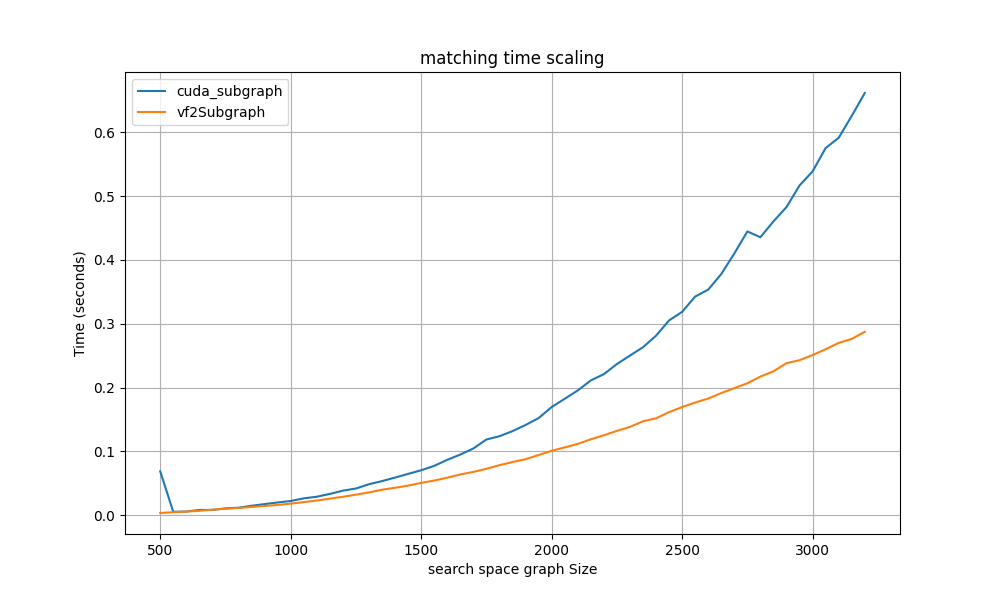
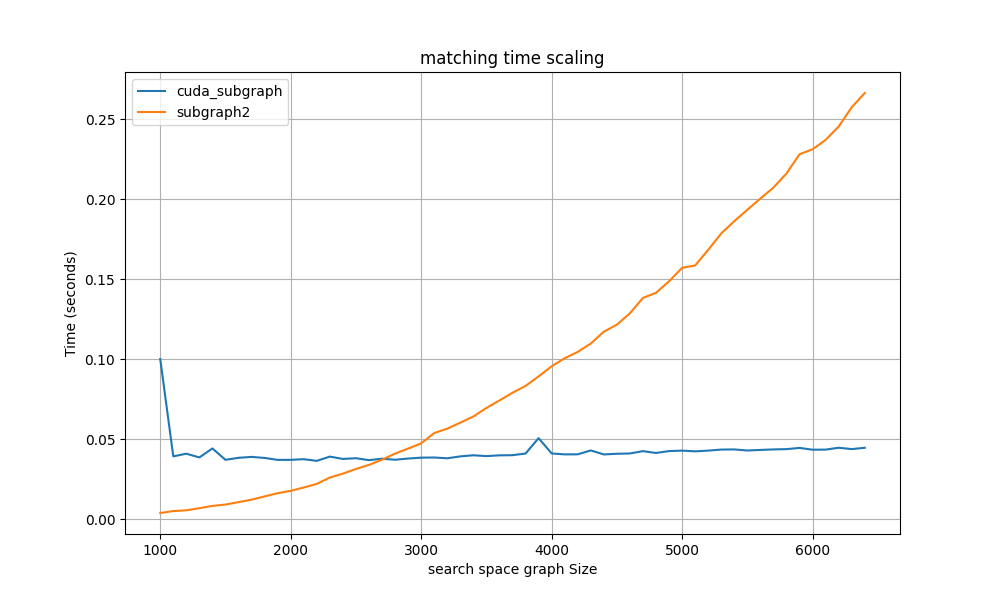
fixed cuda benchmarks

diff --git a/utils/generateSamples.cpp b/utils/generateSamples.cpp
@@ -21,18 +21,18 @@ void EfficiencyTests::generateSamples(int count) {
 }
 
 void EfficiencyTests::generateCudaSubgraphSamples(int count) {
-    std::size_t bigGraphSize = 500;
-    const std::size_t bigDelta = 50;
-
-    std::vector<core::Graph> bigGraphs;
-    for (int i = 0; i < count; i++) {
-        const auto bigGraph = GraphFactory::random_connected_graph(bigGraphSize, 0.02);
-        cudaBigGraphs_.push_back(bigGraph);
-        bigGraphSize += bigDelta;
-    }
+    std::size_t bigGraphSize = 1000;
+    const std::size_t bigDelta = 100;
 
     std::size_t subgraphSize = 10;
     cudaSmallGraph_ = GraphFactory::random_connected_graph(subgraphSize, 0.8);
+
+    std::vector<core::Graph> bigGraphs;
+    for (int i = 0; i < count; i++) {
+        const auto bigGraph = GraphFactory::random_bigger_graph(cudaSmallGraph_, bigGraphSize);
+        cudaBigGraphs_.push_back(bigGraph);
+        bigGraphSize += bigDelta;
+    }
 }
 
 void EfficiencyTests::generateSubgraphSamples(int count, bool induced) {

diff --git a/utils/include/utils.h b/utils/include/utils.h
@@ -23,7 +23,7 @@ class GraphFactory {
     static core::Graph random_induced_minor(const core::Graph& G, std::size_t minorSize);
     static core::Graph random_edge_subdivisions(const core::Graph& G, std::size_t count);
     static core::Graph undirectedGraph(const core::Graph& G);
-    static core::Graph random_bigger_graph(const core::Graph& G, std::size_t size, double edge_probability = 0.4);
+    static core::Graph random_bigger_graph(const core::Graph& G, std::size_t size, double edge_probability = 0.8);
 
   private:
     static std::vector<std::size_t> shuffled_vertices(std::size_t vertex_count);

diff --git a/scripts/plot2.py b/scripts/plot2.py
@@ -9,7 +9,7 @@ def extract_data_from_file(file_path):
     
     with open(file_path, 'r') as file:
         for line in file:
-            match = re.search(r"fail; ([\d.]+) seconds; big=(\d+); small=\d+;", line)
+            match = re.search(r"success; ([\d.]+) seconds; big=(\d+); small=\d+;", line)
             if match:
                 time = float(match.group(1))
                 big = int(match.group(2))
